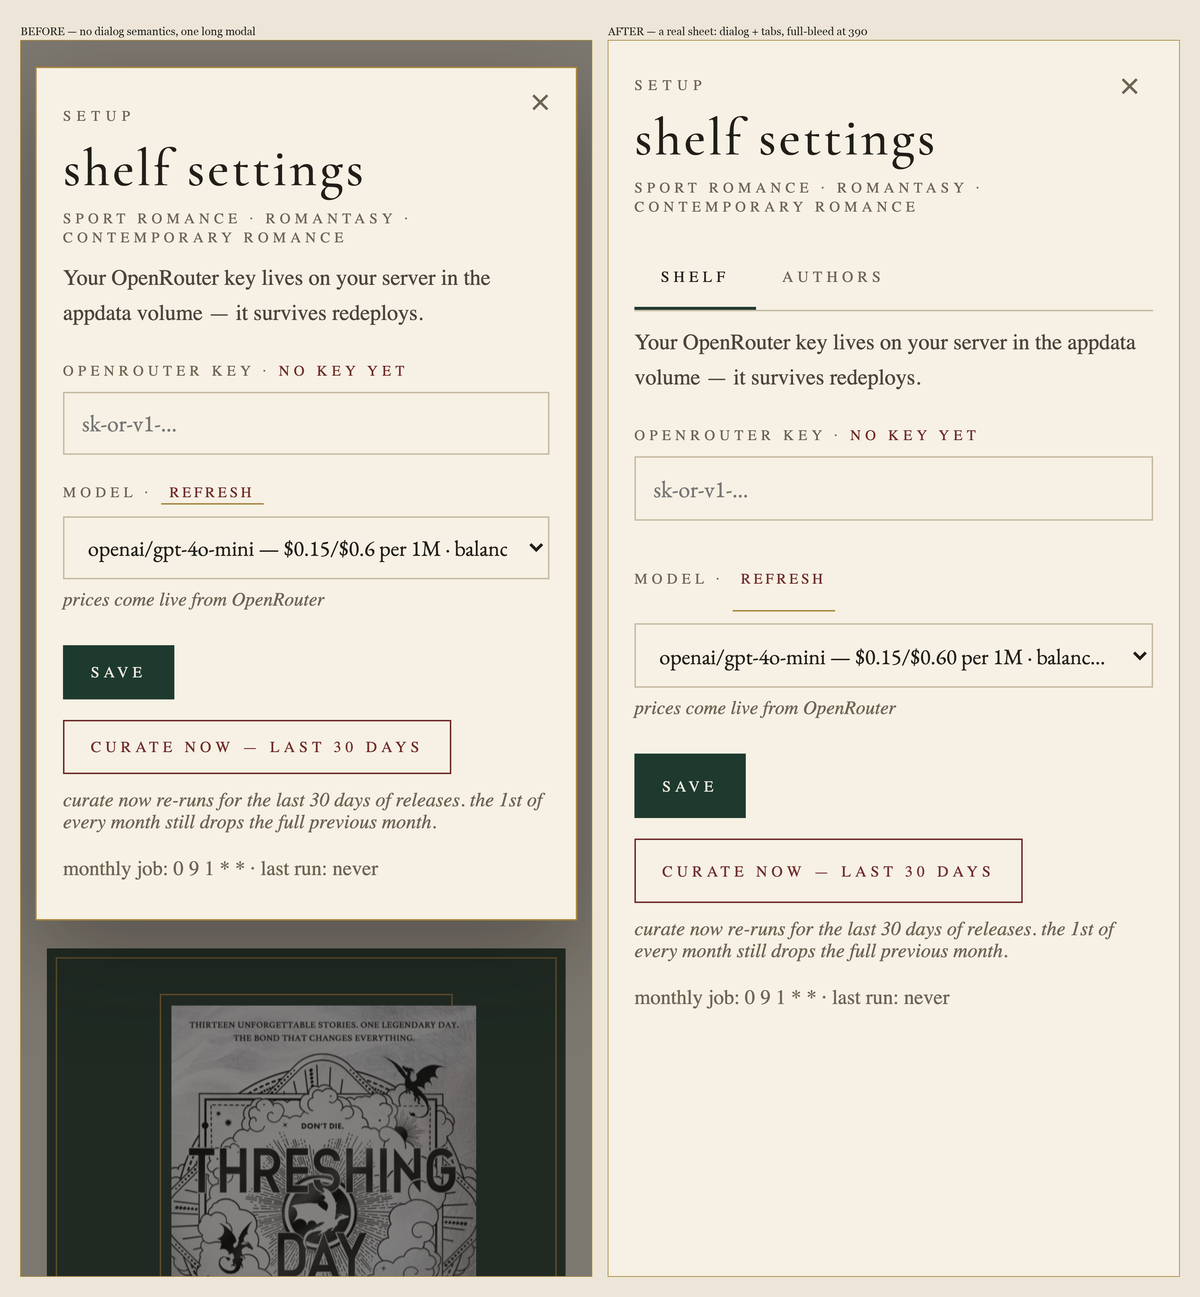
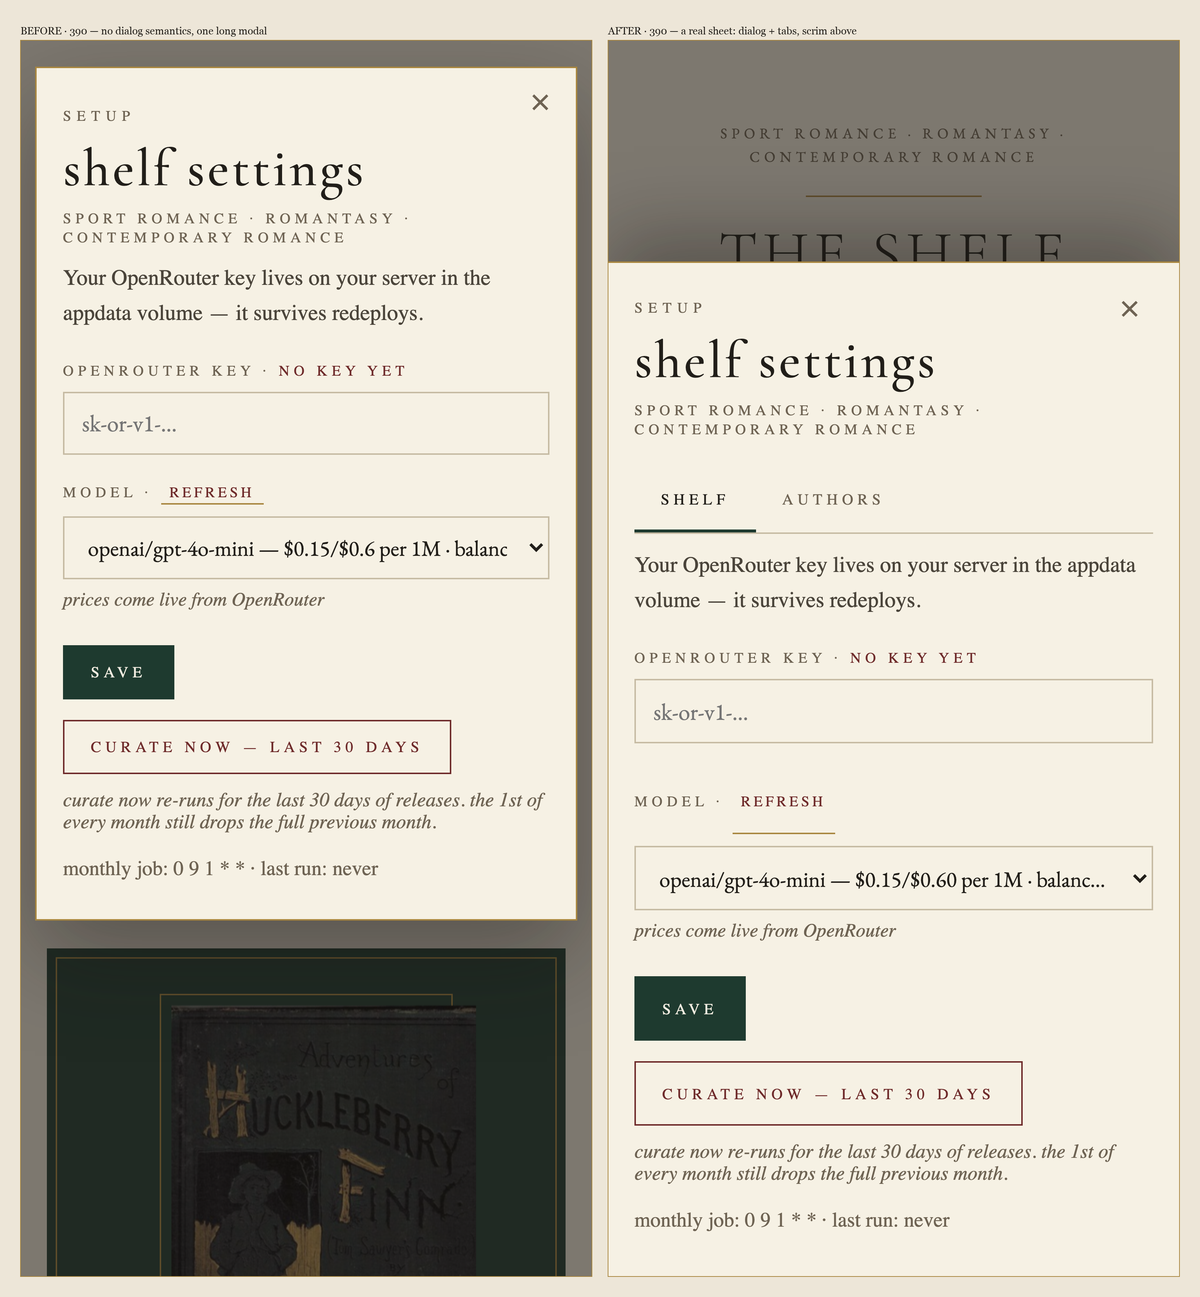
Ticket #8 review fixes + privacy-clean evidence
Two-axis review findings, folded in:

- Dialog semantics are enforced, not just declared: Tab/Shift+Tab wrap inside
  the sheet (focus trap) and closing returns focus to the settings trigger.
  Verified live: wrap forward ends on set-x, back ends on set-run, close
  leaves focus on set-open.
- The tabs carry the ARIA tabs keyboard contract: roving tabindex plus
  ArrowLeft/ArrowRight switching with focus follow. Verified live.
- On phones the sheet is a bottom sheet (94% max height, internal scroll):
  the scrim reads above it (box top 151px at 390) instead of being covered
  edge-to-edge.
- server.py: one _body() parse shared by do_POST/do_DELETE; authors.json
  drops the unmaintained v; norm_author's docstring names fetch.py normkey;
  app.html's money formatter renamed from fm.
- Evidence recaptured from the synthetic sim (fabricated books/authors only —
  the earlier BEFORE panel showed a real shelf cover through the scrim, and
  AGENTS.md prefers UI-only captures). Captures use fresh page loads; a
  close/reopen cycle before Page.captureScreenshot yields a stale frame in
  headless Chrome even though the live DOM hit-tests correctly (verified:
  elementFromPoint lands in settings-box).

diff --git a/pipeline/design/app.html b/pipeline/design/app.html
@@ -54,8 +54,8 @@
     [data-m="pills"]{gap:8px !important}
     [data-m="stackCase"]{padding:20px 12px 0 !important}
     [data-m="stackTip"]{max-width:62vw !important}
-    [data-m="setVeil"]{padding:0 !important;align-items:stretch !important}
-    [data-m="settingsBox"]{padding:24px 18px 44px !important;max-width:none !important;min-height:100%;border-left:none !important;border-right:none !important;border-top:none !important}
+    [data-m="setVeil"]{padding:0 !important;align-items:flex-end !important}
+    [data-m="settingsBox"]{padding:24px 18px 30px !important;max-width:none !important;width:100% !important;max-height:94% !important;min-height:0 !important;overflow:auto !important;border-left:none !important;border-right:none !important;border-bottom:none !important;box-shadow:0 -18px 50px rgba(20,18,14,.35) !important}
     [data-m="settingsBox"] input,[data-m="settingsBox"] select,[data-m="settingsBox"] button{min-height:44px !important}
   }
 </style>
@@ -438,8 +438,8 @@
     <h2 id="set-title" style="font-family:'Cormorant Garamond',Garamond,serif;font-weight:500;font-size:36px;letter-spacing:.05em;margin:8px 0 0">shelf settings</h2>
     <p style="margin:6px 0 0;font-size:10px;letter-spacing:.3em;text-transform:uppercase;color:#6E6353">Sport Romance · Romantasy · Contemporary Romance</p>
     <div role="tablist" aria-label="settings sections" style="display:flex;margin-top:20px;border-bottom:1px solid #C6BBA3">
-      <button type="button" id="tab-shelf" role="tab" aria-selected="true" aria-controls="panel-shelf" style="font-size:10.5px;letter-spacing:.28em;text-transform:uppercase;padding:12px 18px 11px;background:transparent;border:none;border-bottom:2px solid #1E3A2F;color:#211E19;cursor:pointer;min-height:44px">Shelf</button>
-      <button type="button" id="tab-authors" role="tab" aria-selected="false" aria-controls="panel-authors" style="font-size:10.5px;letter-spacing:.28em;text-transform:uppercase;padding:12px 18px 11px;background:transparent;border:none;border-bottom:2px solid transparent;color:#6E6353;cursor:pointer;min-height:44px">Authors</button>
+      <button type="button" id="tab-shelf" role="tab" aria-selected="true" aria-controls="panel-shelf" tabindex="0" style="font-size:10.5px;letter-spacing:.28em;text-transform:uppercase;padding:12px 18px 11px;background:transparent;border:none;border-bottom:2px solid #1E3A2F;color:#211E19;cursor:pointer;min-height:44px">Shelf</button>
+      <button type="button" id="tab-authors" role="tab" aria-selected="false" aria-controls="panel-authors" tabindex="-1" style="font-size:10.5px;letter-spacing:.28em;text-transform:uppercase;padding:12px 18px 11px;background:transparent;border:none;border-bottom:2px solid transparent;color:#6E6353;cursor:pointer;min-height:44px">Authors</button>
     </div>
     <div id="panel-shelf" role="tabpanel" aria-labelledby="tab-shelf">
     <p style="margin:10px 0 0;font-size:15px;line-height:1.6;color:#4A443A">Your OpenRouter key lives on your server in the appdata volume — it survives redeploys.</p>
@@ -480,11 +480,22 @@
   var veil=document.getElementById('set-veil');
   if(!veil)return;
   function open(){veil.style.display='flex';loadStatus();loadAuthors();if(!document.getElementById('set-model').options.length){loadModels();}startPolling();var x=document.getElementById('set-x');if(x)x.focus();}
-  function close(){veil.style.display='none';stopPolling();}
+  function close(){veil.style.display='none';stopPolling();var o=document.getElementById('set-open');if(o)o.focus();}
   document.addEventListener('click',function(e){if(e.target&&e.target.id==='set-open'){open();}});
   document.getElementById('set-x').addEventListener('click',close);
   veil.addEventListener('click',function(e){if(e.target===veil)close();});
   document.addEventListener('keydown',function(e){if(e.key==='Escape'&&veil.style.display!=='none')close();});
+  function focusables(){
+    return Array.prototype.slice.call(document.querySelectorAll('#settings-box button,#settings-box input,#settings-box select'))
+      .filter(function(el){return el.offsetParent!==null&&!el.disabled;});
+  }
+  document.addEventListener('keydown',function(e){
+    if(e.key!=='Tab'||veil.style.display==='none')return;
+    var f=focusables();if(!f.length)return;
+    var first=f[0],last=f[f.length-1];
+    if(e.shiftKey&&document.activeElement===first){e.preventDefault();last.focus();}
+    else if(!e.shiftKey&&document.activeElement===last){e.preventDefault();first.focus();}
+  });
   function tab(which){
     var on=which==='authors';
     document.getElementById('panel-shelf').hidden=on;
@@ -495,9 +506,20 @@
     document.getElementById('tab-shelf').style.color=on?'#6E6353':'#211E19';
     document.getElementById('tab-authors').style.borderBottomColor=on?'#1E3A2F':'transparent';
     document.getElementById('tab-authors').style.color=on?'#211E19':'#6E6353';
+    document.getElementById('tab-shelf').tabIndex=on?-1:0;
+    document.getElementById('tab-authors').tabIndex=on?0:-1;
+  }
+  function tabKey(e){
+    if(e.key!=='ArrowRight'&&e.key!=='ArrowLeft')return;
+    e.preventDefault();
+    var go=e.key==='ArrowRight'?'authors':'shelf';
+    tab(go);
+    document.getElementById(go==='authors'?'tab-authors':'tab-shelf').focus();
   }
   document.getElementById('tab-shelf').addEventListener('click',function(){tab('shelf');});
   document.getElementById('tab-authors').addEventListener('click',function(){tab('authors');});
+  document.getElementById('tab-shelf').addEventListener('keydown',tabKey);
+  document.getElementById('tab-authors').addEventListener('keydown',tabKey);
   function msg(t){document.getElementById('auth-msg').textContent=t||'';}
   function renderAuthors(lst){
     var host=document.getElementById('auth-list');host.innerHTML='';
@@ -566,10 +588,10 @@
   function loadModels(sel){
     j('/api/models').then(function(d){
       var m=document.getElementById('set-model');m.innerHTML='';
-      var fm=function(v){v=+v;return '$'+(v===Math.round(v)?v:v.toFixed(2));};
+      var money=function(v){v=+v;return '$'+(v===Math.round(v)?v:v.toFixed(2));};
       (d.models||[]).forEach(function(x){
         var o=document.createElement('option');o.value=x.id;
-        o.textContent=x.id+' — '+fm(x.in_mtok)+'/'+fm(x.out_mtok)+' per 1M · '+x.why;
+        o.textContent=x.id+' — '+money(x.in_mtok)+'/'+money(x.out_mtok)+' per 1M · '+x.why;
         m.appendChild(o);
       });
       if(sel){m.value=sel;}

diff --git a/container/server.py b/container/server.py
@@ -308,12 +308,15 @@ class H(BaseHTTPRequestHandler):
         else:
             self._static(u.path)
 
+    def _body(self):
+        try:
+            return json.loads(self.rfile.read(int(self.headers.get('Content-Length', 0))))
+        except Exception:
+            return {}
+
     def do_POST(self):
         u = urlparse(self.path)
-        try:
-            body = json.loads(self.rfile.read(int(self.headers.get('Content-Length', 0))))
-        except Exception:
-            body = {}
+        body = self._body()
         if u.path == '/api/state':
             cur = load_state()
             cur['states'] = merge_states(cur.get('states'), body.get('states') or {})
@@ -351,10 +354,7 @@ class H(BaseHTTPRequestHandler):
 
     def do_DELETE(self):
         u = urlparse(self.path)
-        try:
-            body = json.loads(self.rfile.read(int(self.headers.get('Content-Length', 0))))
-        except Exception:
-            body = {}
+        body = self._body()
         if u.path == '/api/authors':
             lst = authors_remove(body.get('name'))
             log('author watch removed: %s' % str(body.get('name'))[:60])
@@ -403,7 +403,8 @@ def merge_states(server_states, incoming):
 
 
 def norm_author(name):
-    """The fetch's normalization: lowercase, non-alphanumerics dropped."""
+    """The fetch's normalization (fetch.py normkey — keep the two in step):
+    lowercase, non-alphanumerics dropped."""
     return re.sub(r'[^a-z0-9]', '', str(name or '').lower())
 
 
@@ -415,7 +416,7 @@ def load_authors():
             return d
     except Exception:
         pass
-    return {'v': 1, 'authors': []}
+    return {'authors': []}
 
 
 def save_authors(d):
